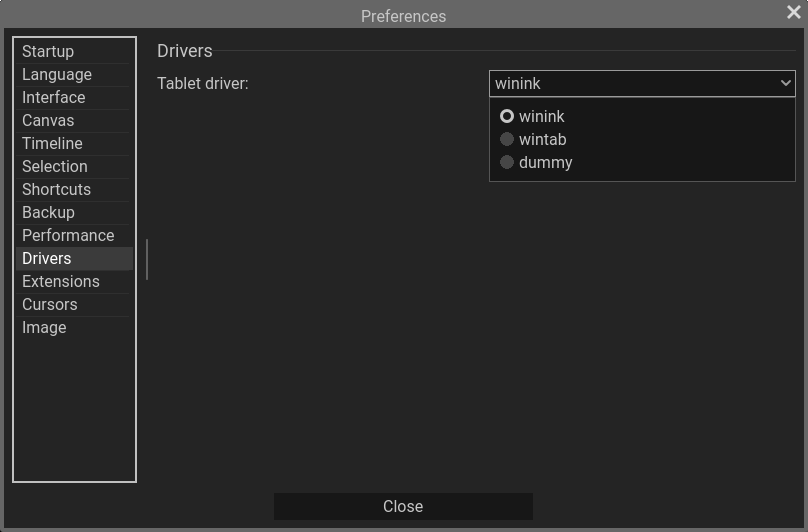
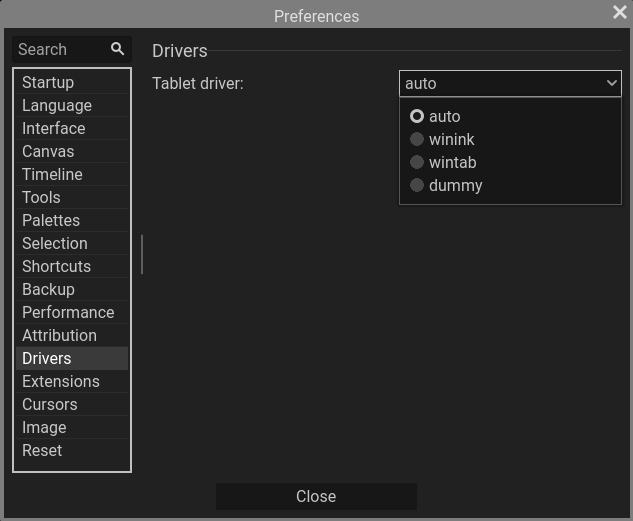
Update Godot version & tablet driver screenshot

diff --git a/docs/source.md b/docs/source.md
@@ -3,6 +3,6 @@ id: source
 title: Compiling from Source
 ---
 
-To compile Pixelorama's source code, all you have to do is download [Godot 4.6](https://godotengine.org/download/). You don't need the mono version since Pixelorama is written entirely with GDScript. Then, you clone [Pixelorama from its GitHub repository](https://github.com/Orama-Interactive/Pixelorama), load the project within Godot, and run it! Simple as that!
+To compile Pixelorama's source code, all you have to do is download [Godot 4.7.1](https://godotengine.org/download/). You don't need the mono version since Pixelorama is written entirely with GDScript. Then, you clone [Pixelorama from its GitHub repository](https://github.com/Orama-Interactive/Pixelorama), load the project within Godot, and run it! Simple as that!
 
 If you wish to export Pixelorama as a standalone executable to a platform, you can refer to the relevant page of the documentation of Godot: https://docs.godotengine.org/en/stable/tutorials/export/exporting_projects.html
